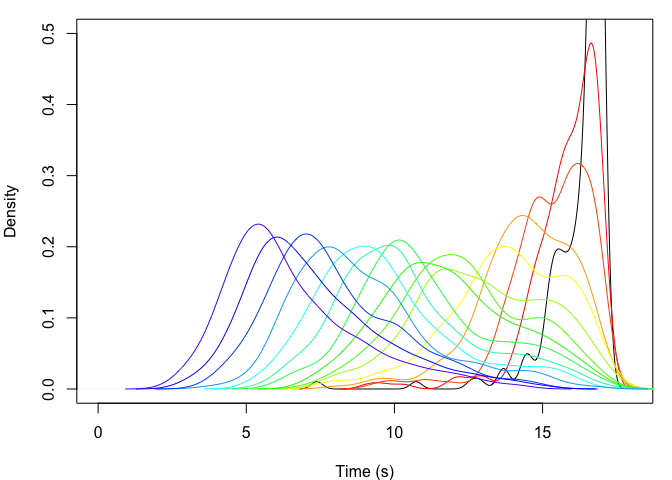
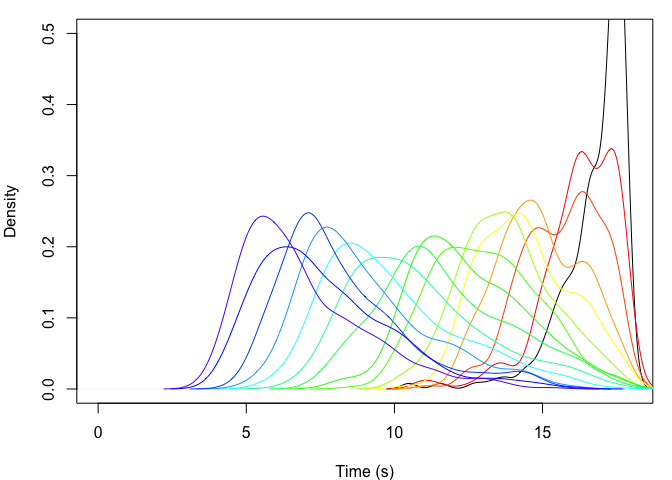
...

Changed region(s): [[0.1875, 0.0312, 0.9688, 0.8125]]

diff --git a/README.md b/README.md
@@ -141,7 +141,7 @@ along with a vector of reference times for the amount of time spent on
 each hold. For now the beta vectors will start out as all TRUE, so that
 all climbers start out using every hold in the route. The reference
 times will be drawn from truncated normal distributions with a lower
-bound at 0, a mean of the initial mean speed (let’s say 20 seconds)
+bound at 0, a mean of the initial mean speed (let’s say 18 seconds)
 divided by the number of holds on the route, and a standard deviation of
 the mean divided by a parameter that controls the initial variation in
 times across holds. Here is an example of how the beta and reference
@@ -152,7 +152,7 @@ time vectors are intialized.
 n_holds <- 20
 
 #set initial mean speed
-init_mean <- 20
+init_mean <- 18
 
 #set probability of initial beta holds at 1 (all holds on the route)
 beta_true_prob <- 1
@@ -177,9 +177,9 @@ beta
 ref_times
 ```
 
-    ##  [1] 1.1220552 0.9902822 0.9048368 0.9206747 1.0805348 1.1248050 0.8082014
-    ##  [8] 1.0841870 0.8132262 1.0091081 0.9177684 1.0258905 1.0037559 1.0447402
-    ## [15] 0.9787296 0.8168301 0.9025306 1.1172947 1.0858090 0.9697394
+    ##  [1] 0.8548070 0.9360130 0.9535056 0.7700459 0.9713559 1.0300125 0.8547929
+    ##  [8] 0.9037143 0.9668870 0.9482864 0.9753341 0.9218185 1.0021346 0.8701689
+    ## [15] 0.8965266 0.8413457 1.0854928 0.9162729 0.9662464 0.9242109
 
 In each timestep, each climber has the same `innov_prob` probability of
 innovation. Innovations are changes to the beta of the route, in this
